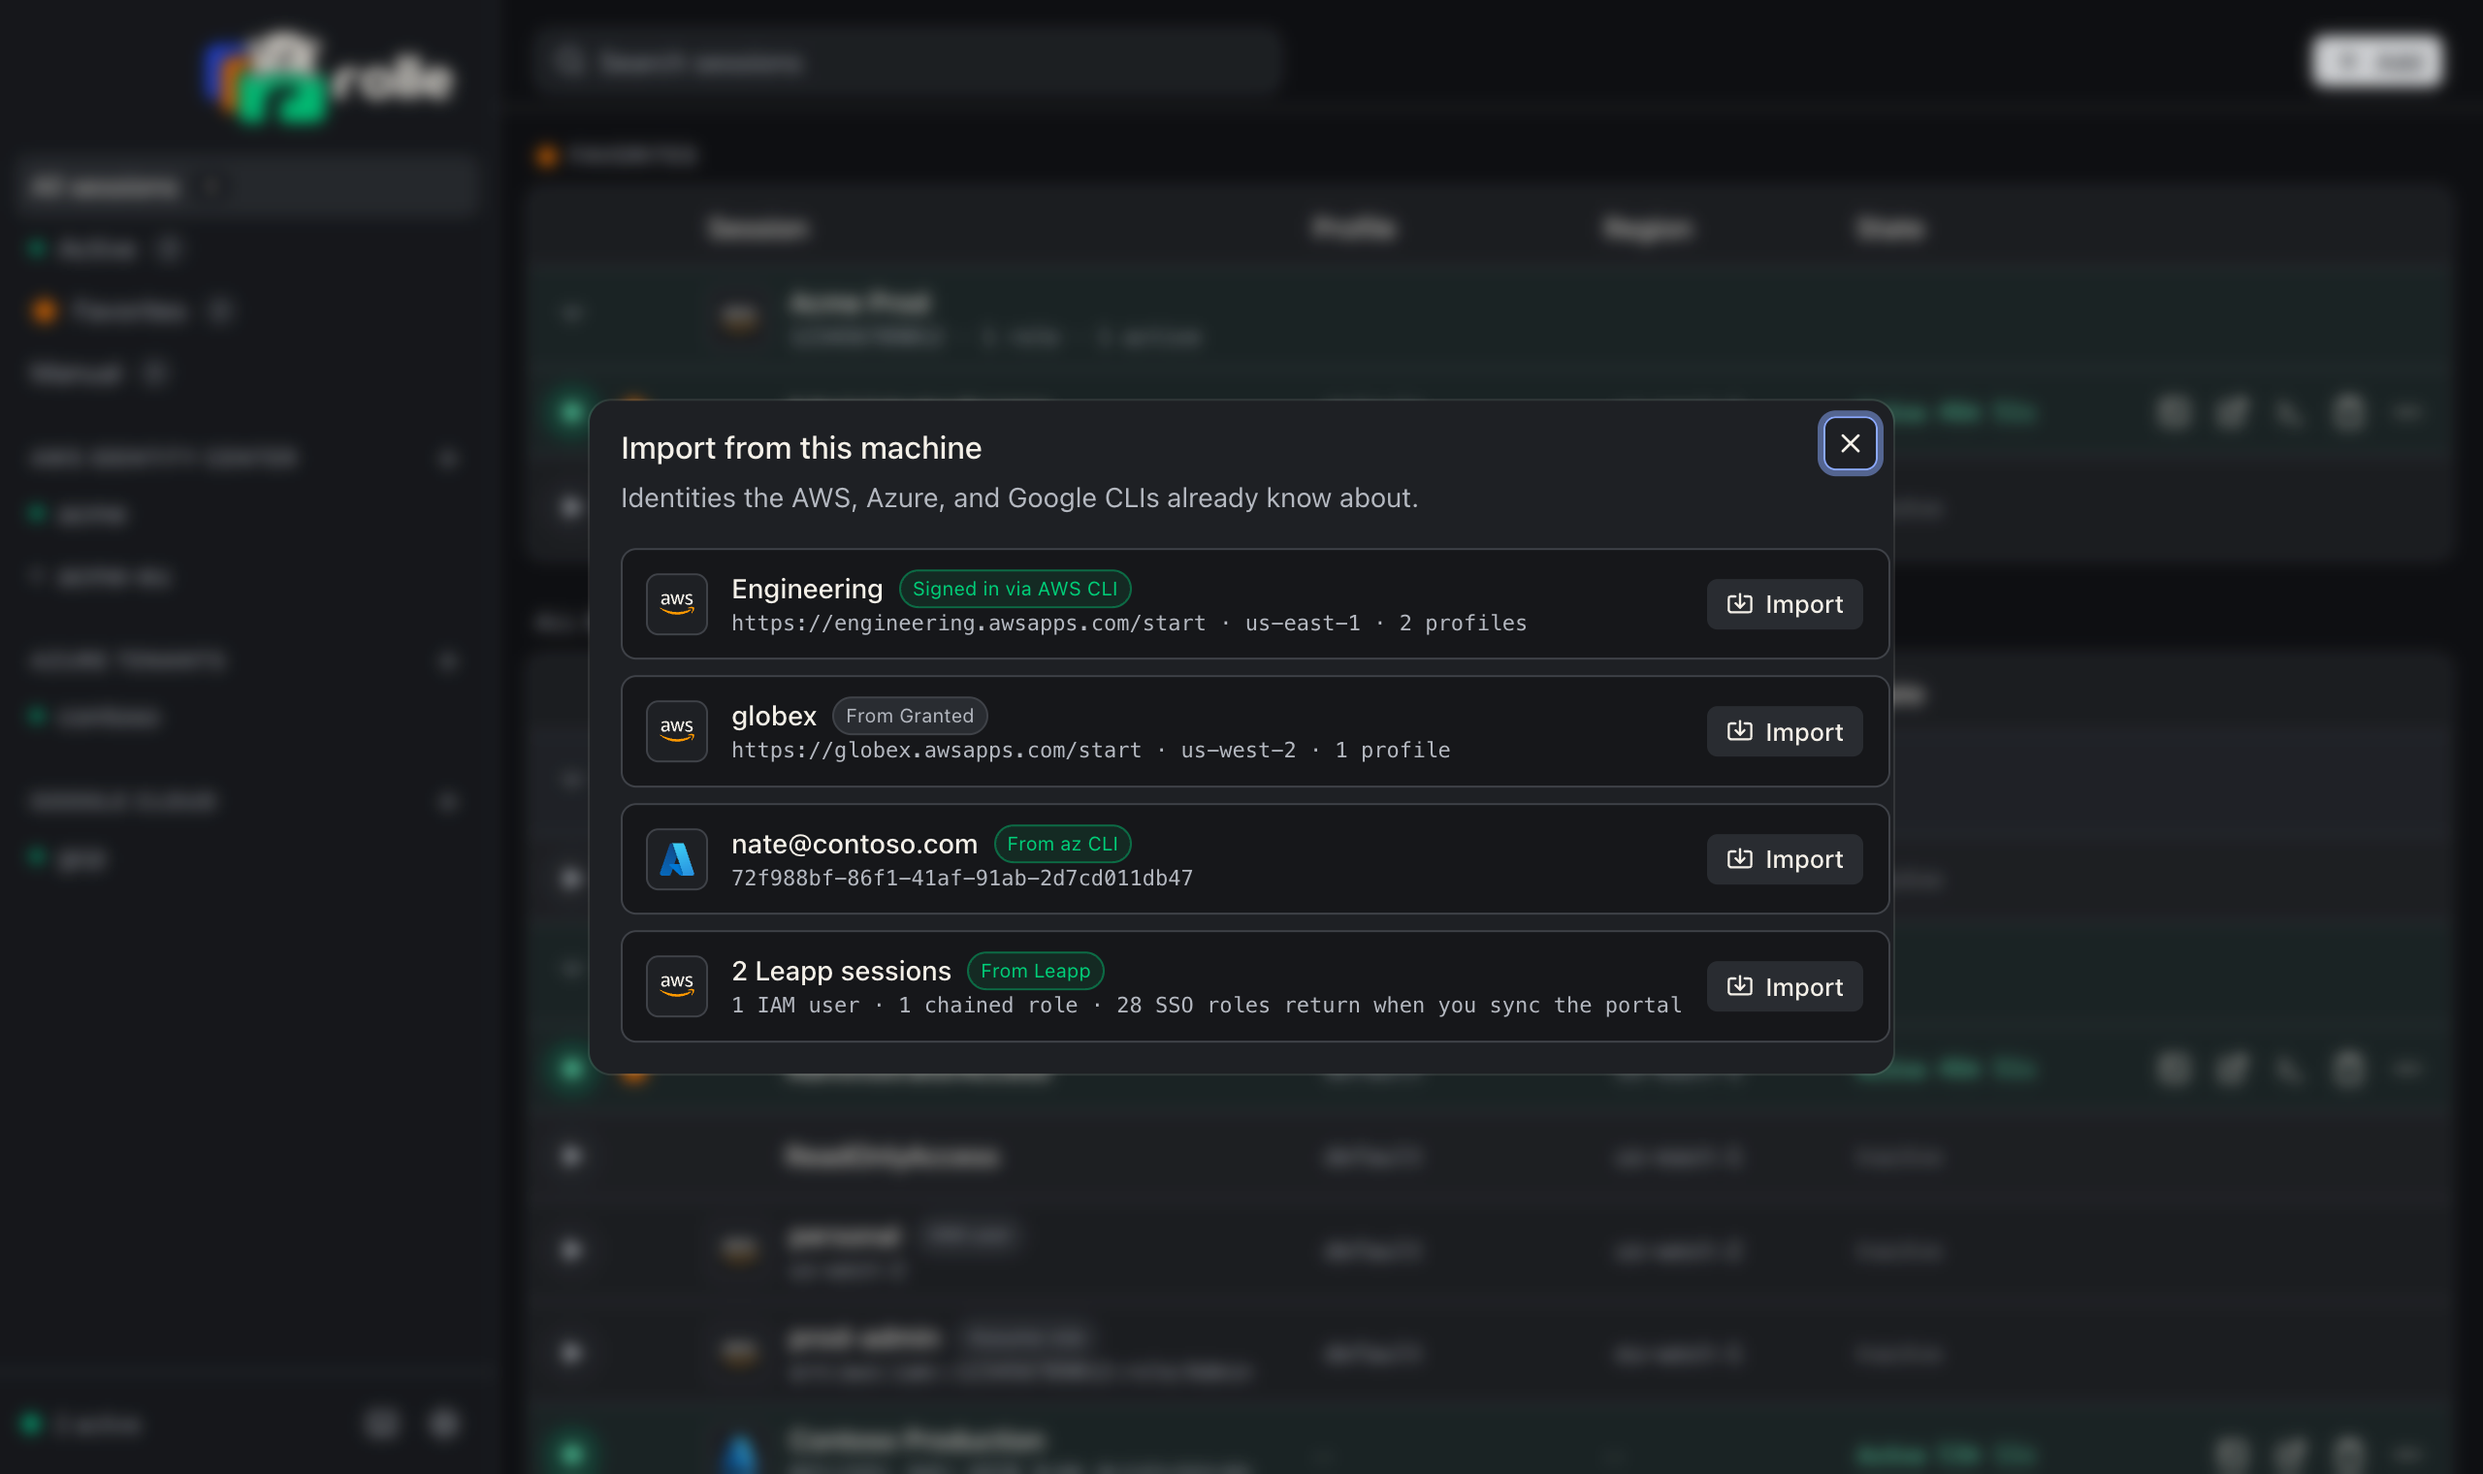
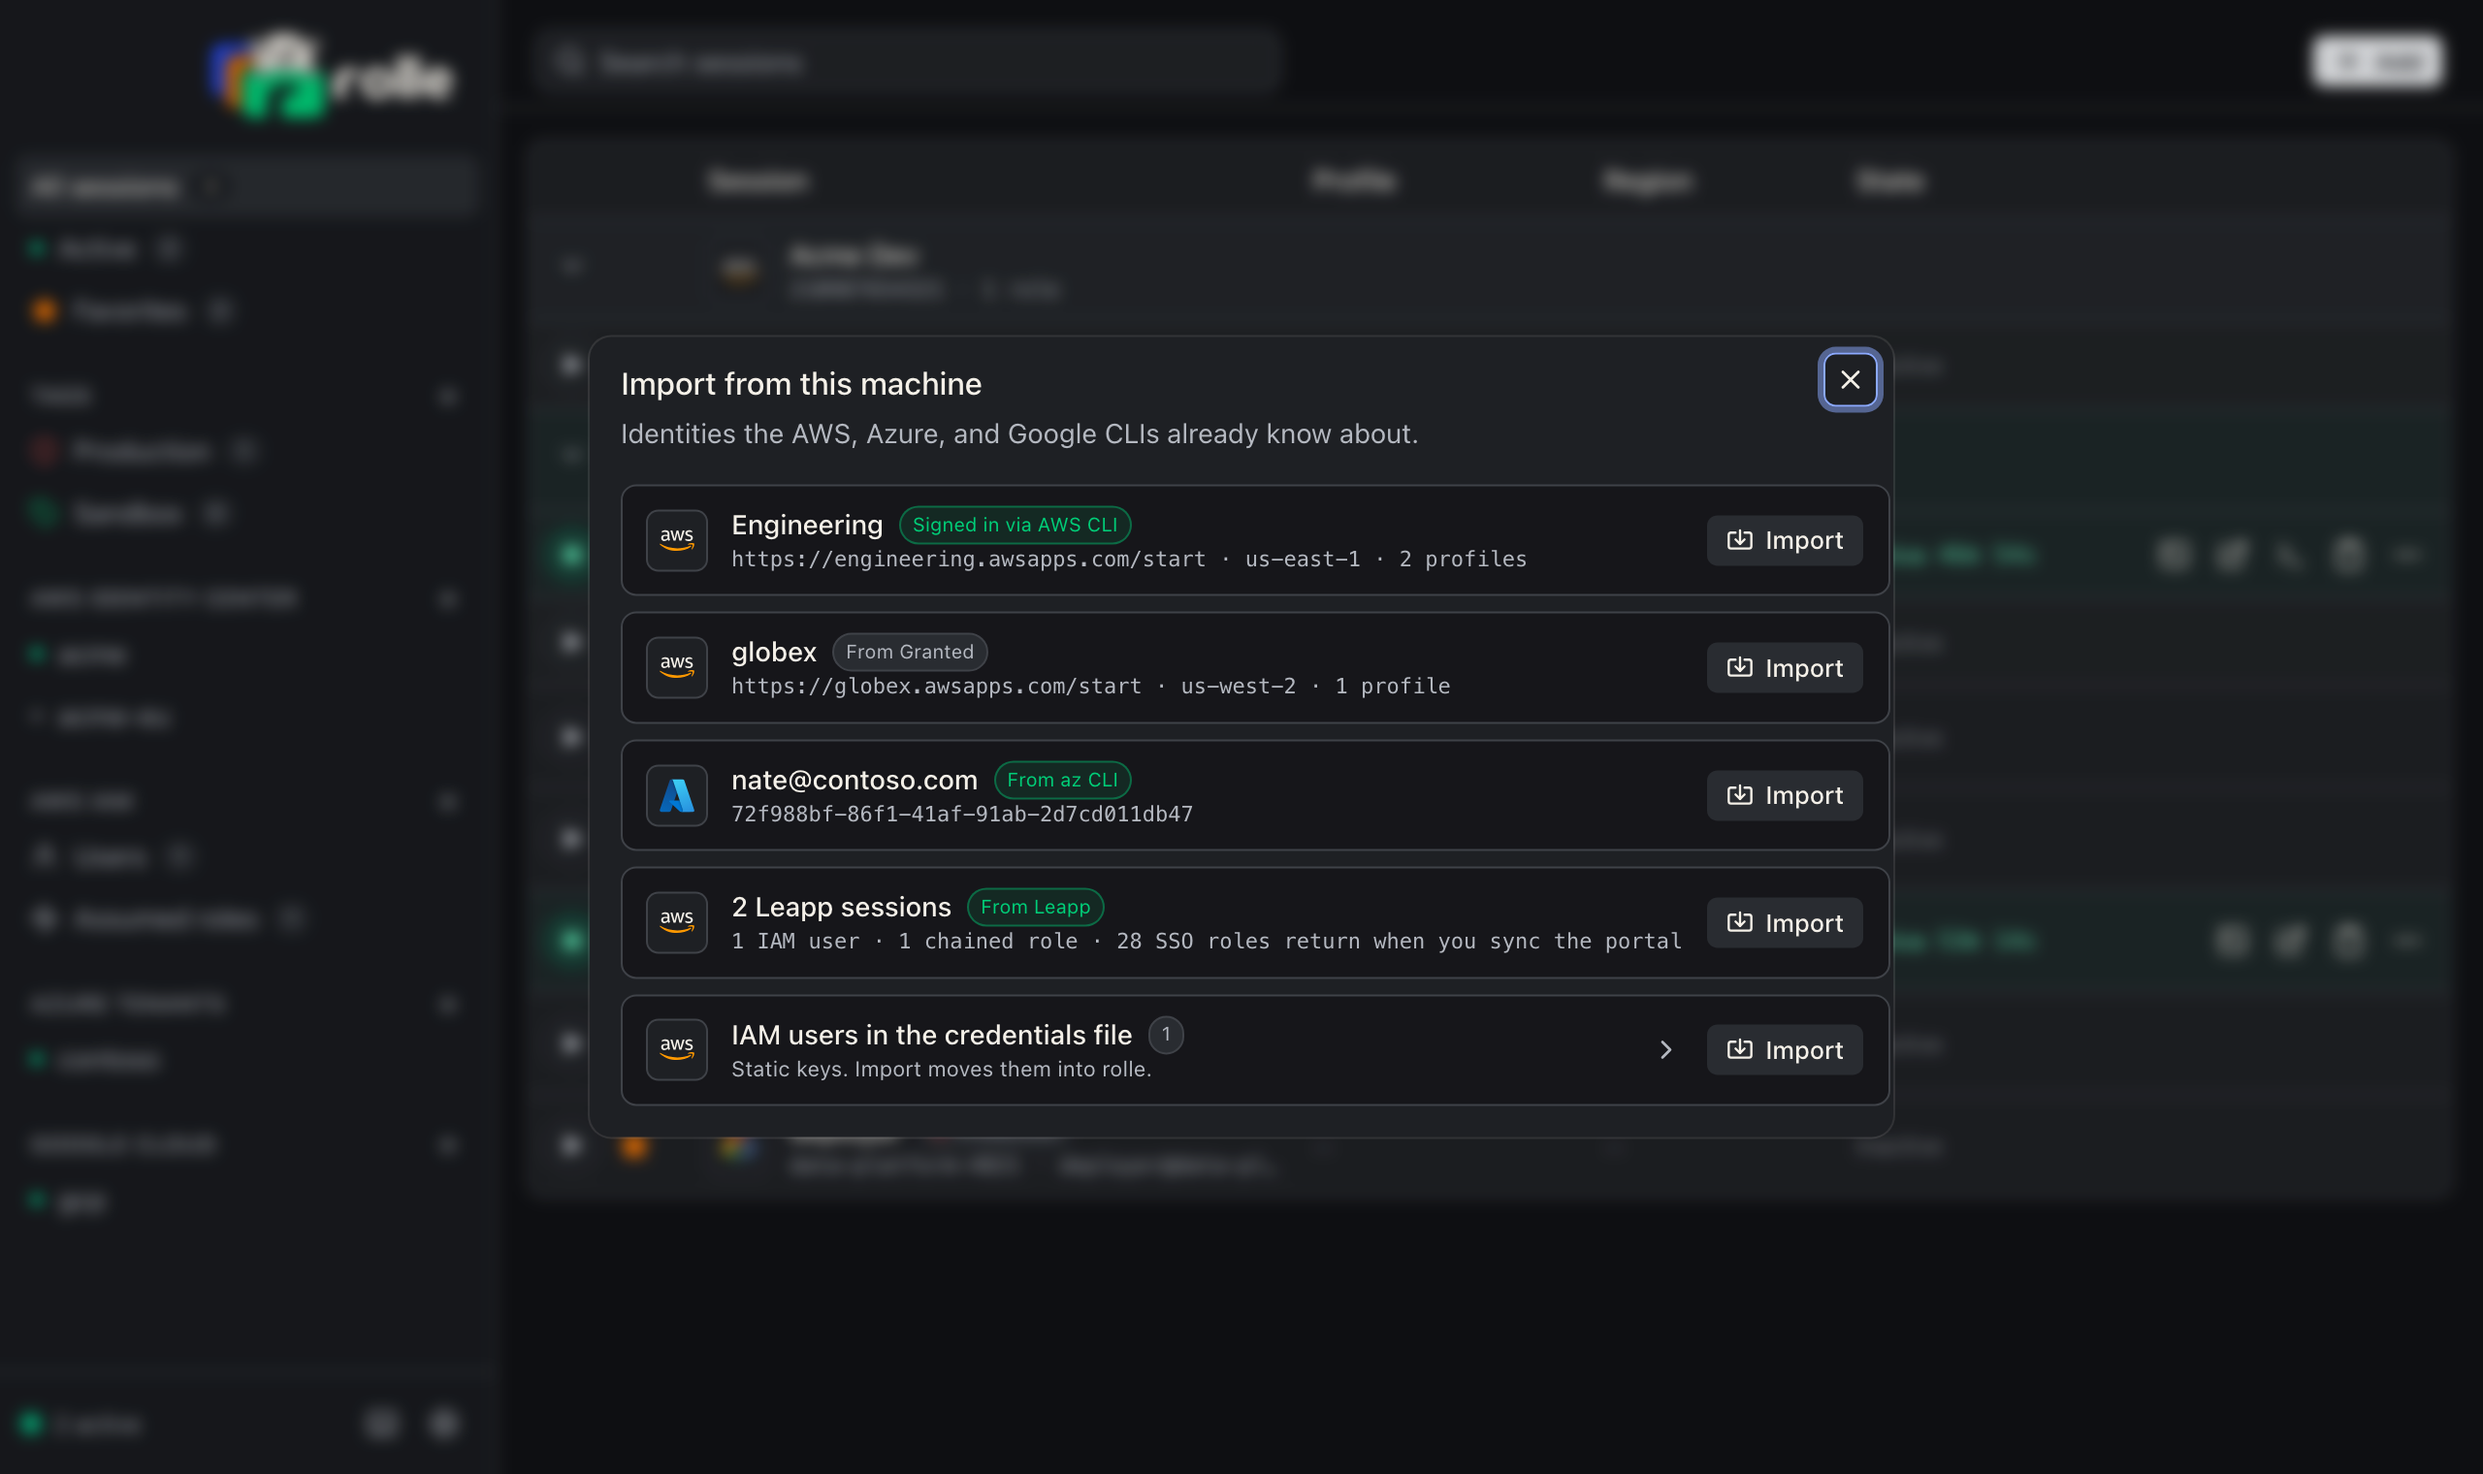
docs: screenshots from the current demo data, with the AWS settings tab and the onboarding Done step

diff --git a/apps/desktop/frontend/src/lib/mock.ts b/apps/desktop/frontend/src/lib/mock.ts
@@ -18,9 +18,14 @@ const id = () => Math.random().toString(36).slice(2, 10);
 const listeners = new Set<() => void>();
 const emit = () => listeners.forEach((l) => l());
 
+// ?keys=1 adds static keys in ~/.aws/credentials to the demo: a shadowed
+// profile on the personal user and two profiles for the cleanup card.
+const demoKeys = new URLSearchParams(location.search).get("keys") === "1";
+
 const state: Workspace = {
   version: 1,
   onboarded: new URLSearchParams(location.search).get("view") === "dashboard",
+  shadowedProfiles: demoKeys ? { personal: "~/.aws/credentials" } : undefined,
   integrations: [],
   sessions: [],
   tags: [],
@@ -100,7 +105,12 @@ function seed() {
       region: "eu-west-1",
       aws: { roleArn: "arn:aws:iam::123456789012:role/Admin", sourceSessionId: "x" },
     }),
-    s({ name: "personal", kind: "aws-iam-user", region: "us-west-2", aws: { mfaDevice: "arn:aws:iam::1:mfa/me" } }),
+    s({
+      name: "personal",
+      kind: "aws-iam-user",
+      region: "us-west-2",
+      aws: { mfaDevice: "arn:aws:iam::1:mfa/me", profile: "personal" },
+    }),
     s({
       name: "Contoso Production",
       kind: "azure",
@@ -517,7 +527,29 @@ export const mockApi = {
     emit();
   },
   ProfileShadow: async () => "",
-  StaticProfiles: async () => ({ path: "~/.aws/credentials", profiles: [] as string[] }),
+  StaticProfiles: async () => ({
+    path: "~/.aws/credentials",
+    profiles: demoKeys
+      ? [
+          {
+            name: "personal",
+            keys: [
+              { name: "aws_access_key_id", preview: "AKIA…" },
+              { name: "aws_secret_access_key", preview: "…" },
+            ],
+            imported: true,
+          },
+          {
+            name: "legacy-ci",
+            keys: [
+              { name: "aws_access_key_id", preview: "AKIA…" },
+              { name: "aws_secret_access_key", preview: "…" },
+            ],
+            imported: false,
+          },
+        ]
+      : [],
+  }),
   RemoveStaticProfile: async () => {},
   SetAlias: async (_kind: string, key: string, alias: string) => {
     // The mock keeps no original names, so an empty alias changes nothing.

diff --git a/README.md b/README.md
@@ -19,7 +19,7 @@
 Assume any role, any cloud.
 
 <p align="center">
-  <img src="docs/public/screenshots/dashboard-dark.png" alt="rolle dashboard: AWS accounts with their roles, an Azure subscription, and Google Cloud projects, two sessions active" width="900">
+  <img src="docs/public/screenshots/dashboard-dark.png" alt="rolle dashboard: tags, AWS accounts with their roles, IAM users, an Azure subscription, and Google Cloud projects, two sessions active" width="900">
 </p>
 
 rolle is a desktop app and a CLI. It hands short-lived AWS, Azure, and Google Cloud credentials to your tools and writes no secret to disk.
